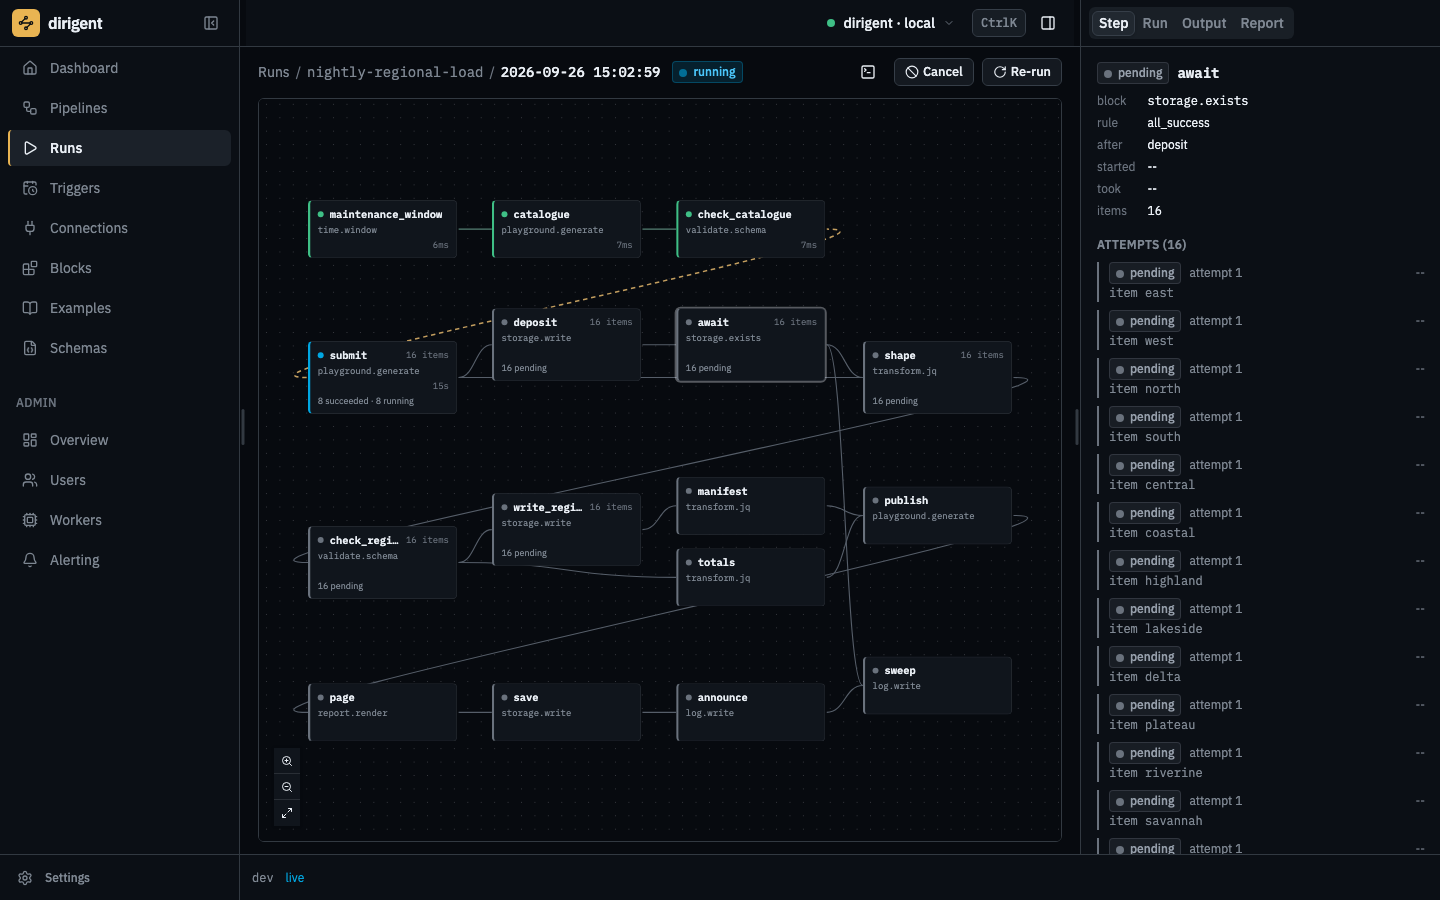
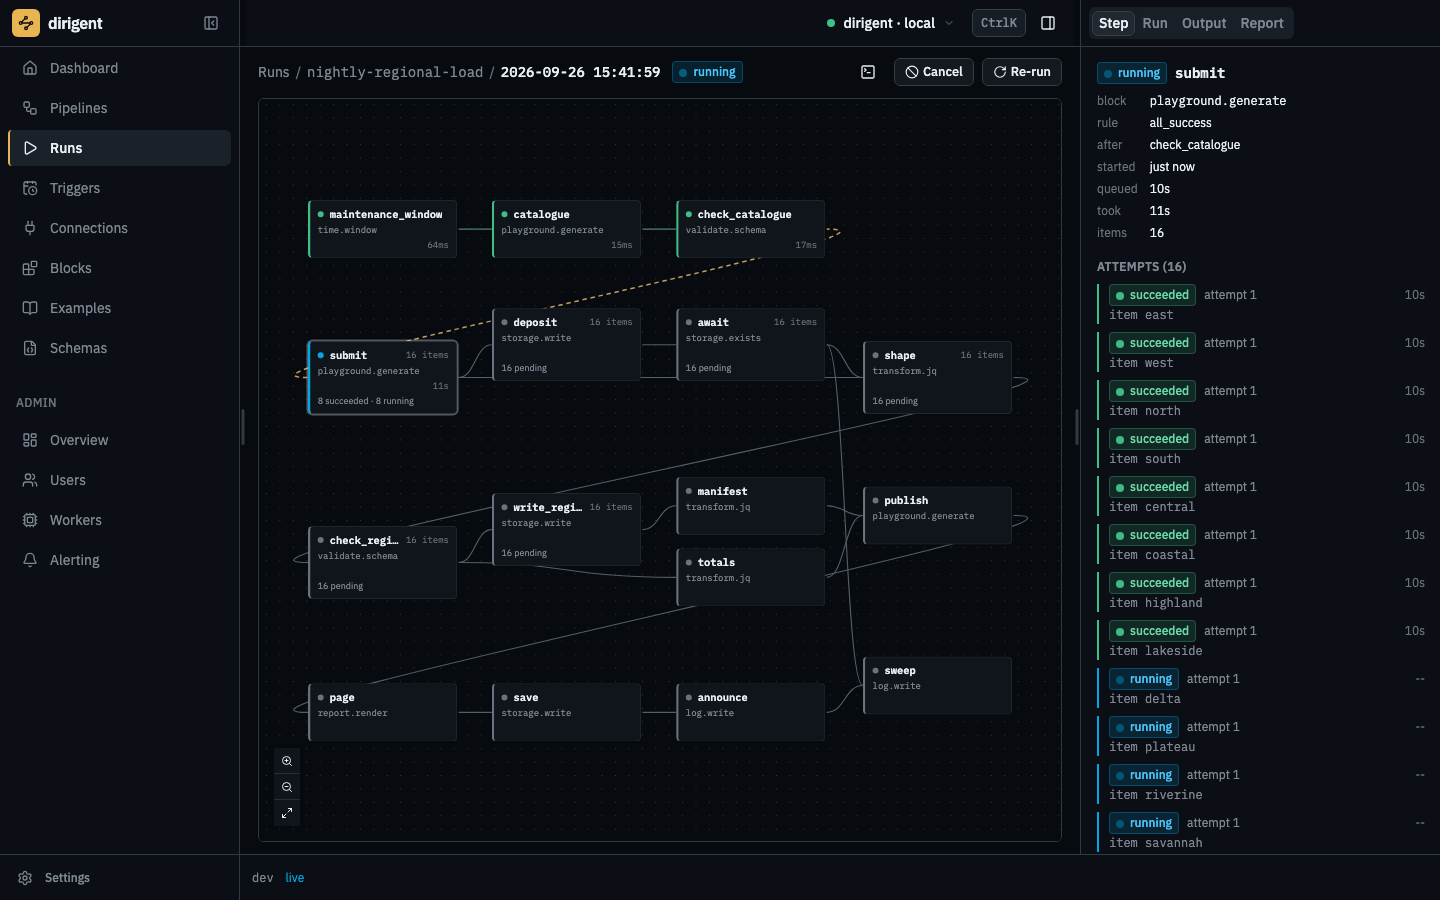
fix: photograph the run in flight against the step that is in flight
The camera watched await, which is a sensor over an object the deposit before it has not
written yet, so the picture was of sixteen items pending while submit, the paced step, was
half done. It watches submit now, and it waits on what the card says rather than on a read
of the run: the run screen follows its stream with a backoff, so a shot timed off the API
can be of a card several seconds behind. The wait is for a wave to have landed, because a
grid all in one state teaches nothing.

Both cameras also waited fifteen and eight seconds before every picture for a version
string in the topbar. The version moved into the corner's popover, the bar carries none,
and the wait was swallowed, so each one spent its whole timeout on every shot: the nine
screens took four minutes and now take one. What says the identity read landed is the
corner naming the instance and its environment.

Changed region(s): [[0.75, 0.0622, 0.875, 0.9644]]

diff --git a/packages/dirigent-server/frontend/docs-shots-src/screens.spec.ts b/packages/dirigent-server/frontend/docs-shots-src/screens.spec.ts
@@ -20,13 +20,19 @@ const BRIEFING = 'morning-briefing'
 /** How long each region's export takes on the run photographed mid-flight, a humane duration. */
 const PACE = '10s'
 
-/** The step that picture is of: the readiness probe, one per submitted export. */
-const WATCHED = 'await'
+/**
+ * The step that picture is of: the export, one per region, which is the paced one.
+ *
+ * It is the only step of this document that is in flight long enough to photograph. Everything
+ * downstream of it -- the deposit, the readiness probe, the per-region shape -- has its whole
+ * grid laid out and waiting, and each of those answers the instant its turn comes.
+ */
+const WATCHED = 'submit'
 
 /**
- * The grid that run fans out over: wider than the worker has slots, so half of it is in
- * progress while the other half waits its turn, which is what a fan-out looks like from the
- * inside and what the picture is there to show.
+ * The grid that run fans out over: wider than the worker has slots, so one wave is in progress
+ * while the next waits its turn, which is what a fan-out looks like from the inside and what
+ * the picture is there to show.
  */
 const WIDE = [
     'east',
@@ -50,12 +56,12 @@ const WIDE = [
 /**
  * The tag the pipelines picture is filtered to.
  *
- * THE UNFILTERED LISTING IS THE WRONG PICTURE. It sorts by name, so the first screen of a
- * hundred and sixty documents is whatever begins with A, every row reads "never run", and the
- * screen looks like a directory rather than like somewhere work happens. `fan-out` is a tag
- * the three showcase documents share with ten patterns, so filtering to it is one screen of
- * rows that are all about the same thing, carry the vocabulary in their tags column, and --
- * once the cast below has run -- have real last runs with a failure among them.
+ * THE UNFILTERED LISTING IS THE WRONG PICTURE. It sorts by name, so the first screen of the
+ * whole corpus is whatever begins with A, every row reads "never run", and the screen looks
+ * like a directory rather than like somewhere work happens. `fan-out` is a tag the three
+ * showcase documents share with eleven more, so filtering to it is one screen of rows that are
+ * all about the same thing, carry the vocabulary in their tags column, and -- once the cast
+ * below has run -- have real last runs with a failure among them.
  */
 const TAG = 'fan-out'
 
@@ -136,16 +142,12 @@ async function nothingScrollsSideways(page: Page, name: string): Promise<void> {
  * Wait until the screen has stopped changing under the camera.
  *
  * The corner identity fills over its reads after every full load, so a shot taken while it is
- * asking would put the wrong topbar in the frame.
+ * asking would put the wrong topbar in the frame. What says the read landed is the corner
+ * naming the instance and its environment; the version is in the popover and never in the bar,
+ * so a camera waiting for one waits out its whole timeout before every picture.
  */
 async function readyForShot(page: Page, name: string): Promise<void> {
-    await page
-        .waitForFunction(
-            () => /\d+\.\d+\.\d+/.test(document.querySelector('header')?.textContent ?? ''),
-            undefined,
-            { timeout: 15_000 },
-        )
-        .catch(() => undefined)
+    await page.getByRole('button', { name: 'Instance' }).filter({ hasText: '·' }).waitFor({ timeout: 15_000 })
     await page.waitForTimeout(900)
     await nothingScrollsSideways(page, name)
 }
@@ -183,15 +185,6 @@ async function statusOf(request: APIRequestContext, runId: string): Promise<stri
     return detail.run.status
 }
 
-/** What one step of a run is doing right now, as the graph reports it. */
-async function stepOutcome(request: APIRequestContext, runId: string, step: string): Promise<string | null> {
-    const prefix = await apiPrefix(request)
-    const detail = (await (await request.get(`${prefix}/runs/${runId}`)).json()) as {
-        dag: { nodes: { code: string; outcome: string }[] }
-    }
-    return detail.dag.nodes.find((node) => node.code === step)?.outcome ?? null
-}
-
 /** Wait for a run to stop moving, and answer with where it stopped. */
 async function settled(request: APIRequestContext, runId: string): Promise<string> {
     let status = 'pending'
@@ -218,9 +211,9 @@ async function declareRule(request: APIRequestContext): Promise<void> {
 /**
  * Wait until the seeding has stopped putting things into the instance.
  *
- * The seed applies a hundred and sixty documents and starts six runs while this camera would
- * otherwise already be shooting, and a page built on a half-seeded instance shows neither the
- * corpus nor the failures.
+ * The seed applies the whole corpus and starts six runs while this camera would otherwise
+ * already be shooting, and a page built on a half-seeded instance shows neither the corpus nor
+ * the failures.
  */
 async function seedingSettled(page: Page): Promise<void> {
     let stored = 0
@@ -324,43 +317,49 @@ test('the nine pictures docs/screens.md is built out of', async ({ page }) => {
     await shot(page, 'blocks')
 
     // THE RUN IN FLIGHT, LAST, because it is the only picture with a clock on it. Each region's
-    // readiness probe answers after PACE, so the screen is navigated to before the run
-    // reaches the sensor and the camera waits there rather than spending the window arriving.
+    // export answers after PACE, so the screen is navigated to before the first wave settles and
+    // the camera waits there rather than spending the window arriving.
     await midFlight(page)
 })
 
 /**
  * Photograph a run while its fan-out is still in the air.
  *
- * THE WINDOW IS THE PACE THE PROBES ARE GIVEN, so nothing here navigates inside it: the run is
- * started, the screen is opened on it at once, and the camera waits there for the sensor to go
- * into progress. Sixteen regions against a worker with eight slots is what makes the window
- * wide enough to work in, and what puts half a grid in progress and half of it waiting.
+ * THE WINDOW IS THE PACE THE EXPORTS ARE GIVEN, so nothing here navigates inside it: the run is
+ * started, the screen is opened on it at once, and the camera waits there. Sixteen regions
+ * against a worker with eight slots is what makes the window wide enough to work in, and what
+ * puts one wave in progress and the next waiting.
  *
- * THE SUBJECT IS CHECKED LAST, immediately before the shutter, because a run that settled while
- * the screen was being waited on is a failed attempt rather than a picture. Then it is started
- * again.
+ * THE SECOND WAVE IS THE PICTURE, not the first. A shot taken the instant the step goes into
+ * progress shows sixteen rows in one state and teaches nothing; one taken once a wave has
+ * landed shows what a fan-out against a bounded worker actually looks like.
+ *
+ * THE SCREEN IS WHAT IS WAITED FOR, not the API behind it. The run screen follows its run on a
+ * stream that backs off while nothing changes, so a shot timed off a read of `/runs/{id}` can
+ * be of a card several seconds behind the run. What the picture has to show is what the card
+ * has to say, so that is the wait -- and it is checked again immediately before the shutter,
+ * because a run that moved on while the screen settled is a failed attempt rather than a
+ * picture. Then it is started again.
  */
 async function midFlight(page: Page): Promise<void> {
     for (let attempt = 1; attempt <= 3; attempt += 1) {
         const runId = await startRun(page.request, BIG, { params: { pace: PACE, regions: WIDE } })
         await page.goto(`/runs/${runId}`)
-        await page.locator('.react-flow__node').first().waitFor({ timeout: 60_000 })
+        const node = page.locator('.react-flow__node').filter({ hasText: WATCHED })
+        await node.waitFor({ timeout: 60_000 })
 
-        let caught = false
-        for (let waited = 0; waited < 120_000 && !caught; waited += 400) {
-            const outcome = await stepOutcome(page.request, runId, WATCHED)
-            caught = outcome === 'running'
-            if (!caught && outcome !== null && !['pending', 'queued'].includes(outcome)) break
-            if (!caught) await page.waitForTimeout(400)
-        }
+        const mixed = node.getByText(/\d+ succeeded · \d+ running/)
+        const caught = await mixed.waitFor({ timeout: 120_000 }).then(
+            () => true,
+            () => false,
+        )
         if (!caught) continue
 
-        // The sensor's own items are what the picture is of, so the step is opened on them.
-        await page.locator('.react-flow__node').getByText(WATCHED, { exact: true }).click()
+        // The step's own items are what the picture is of, so the step is opened on them.
+        await node.getByText(WATCHED, { exact: true }).click()
         await page.getByRole('tab', { name: 'Step', exact: true }).waitFor({ timeout: 15_000 })
         await readyForShot(page, 'run-in-flight')
-        if ((await stepOutcome(page.request, runId, WATCHED)) !== 'running') continue
+        if (!(await mixed.isVisible())) continue
 
         await capture(page, 'run-in-flight')
         return

diff --git a/packages/dirigent-server/frontend/shots-src/gallery.spec.ts b/packages/dirigent-server/frontend/shots-src/gallery.spec.ts
@@ -11,17 +11,10 @@ const DEV_USERNAME = 'dev'
 const DEV_PASSWORD = 'dirigent-dev'
 
 async function shot(page: Page, mode: string, name: string): Promise<void> {
-    // The corner identity fills over its reads after every full load; a picture of the
-    // asking state would put the wrong topbar in every frame.
-    await page
-        .waitForFunction(
-            () => /\d+\.\d+\.\d+/.test(document.querySelector('header')?.textContent ?? ''),
-            undefined,
-            {
-                timeout: 8000,
-            },
-        )
-        .catch(() => undefined)
+    // The corner identity fills over its reads after every full load; a picture of the asking
+    // state would put the wrong topbar in every frame. What says the read landed is the corner
+    // naming the instance and its environment, not a version: the bar carries none.
+    await page.getByRole('button', { name: 'Instance' }).filter({ hasText: '·' }).waitFor({ timeout: 8000 })
     await page.waitForTimeout(800)
     await page.screenshot({ path: path.join(OUT, `${name}--${mode}.png`) })
 }
